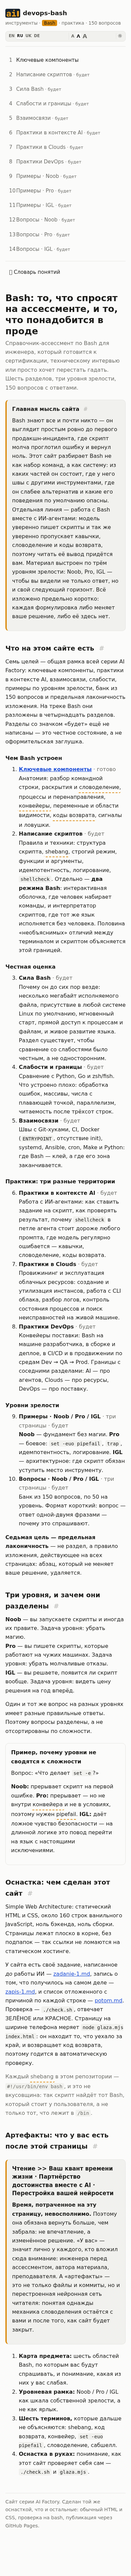
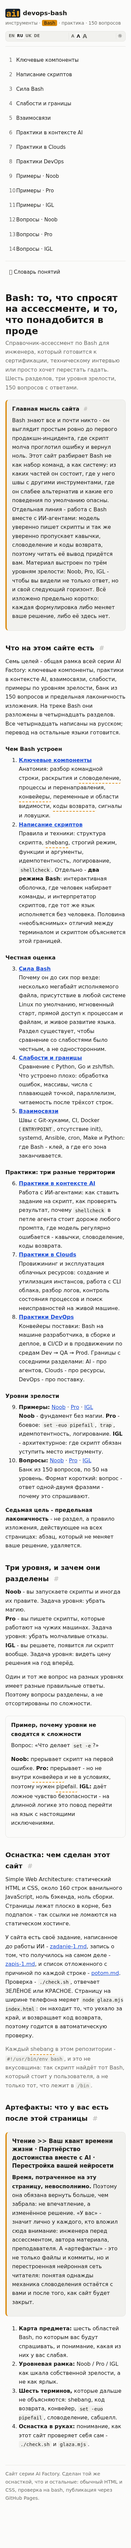
docs: review loop in record 4

Changed region(s): [[0.0308, 0.0, 0.9231, 0.9649]]

diff --git a/zapis-4.md b/zapis-4.md
@@ -79,6 +79,70 @@
 
 ---
 
+## Вторая петля: ревью на Opus 5.5 · 2026-10-17
+
+Ревью шло по трём местам, которые первая петля сама назвала слабыми, и по одному принципу:
+**факты проверяются запуском, а не памятью.** Каждое исправленное утверждение ниже сначала
+выполнено в терминале.
+
+### Ошибки фактов, найденные и исправленные
+
+1. **`local` в `dash` есть.** Утверждалось обратное на страницах `04` и `13`. Проверено:
+   `dash -c 'f(){ local x=1; echo $x; }; f'` печатает `1`. Чего в `dash` действительно нет -
+   массивов, `[[ ]]`, подстановки процессов и `${v//a/b}`; это тоже проверено запуском.
+2. **GitHub Actions и `pipefail`.** Утверждалось, что `pipefail` в шаге `run:` нет никогда.
+   Неверно: без `shell:` запуск идёт как `bash -e {0}`, а с явным `shell: bash` - как
+   `bash --noprofile --norc -eo pipefail {0}`. Исправлено на `05`, `08` и `13`. Это
+   единственная правка по документации, а не по запуску: GitHub Actions на этой машине нет.
+3. **`readlink -f` в macOS** есть в современных версиях системы. Пример заменён на
+   устойчивое различие GNU и BSD: `stat -c %s` против `stat -f %z`.
+4. **Коды возврата в контракте инструмента (`11`).** Было «64 и выше - внутренняя ошибка»,
+   что расходится с `sysexits.h`, где 64 - неправильный вызов. Теперь названа конвенция
+   `sysexits.h` и главный запрет: не занимать 126, 127 и 128+N - их выдаёт сама оболочка.
+
+### Банк вопросов: состав
+
+Заменено 14 вопросов из 150. Причины - три, и только они:
+
+- **дубли между уровнями или внутри уровня**: `false | tee` повторял соседний вопрос про
+  `PIPESTATUS`; `rm $file` в Pro повторял вопрос про кавычки из Noob; `SIGKILL` в Pro повторял
+  `kill -9` из Noob; передача секрета аргументом в IGL повторяла тот же вопрос из Pro;
+- **вопросы, которых не задают**: `sync`, `diff -r`, `${var@Q}`, длина подстроки;
+- **уровень не тот**: `rm -rf "$dir/"` - механика уровня Pro, а не решение уровня IGL.
+
+Что пришло взамен, - то, что на интервью действительно спрашивают и чего в банке не было:
+`((i++))` под `set -e` (проверено: скрипт молча завершается с кодом 1), `exit` против
+`return` в подоболочке (проверено), `printf` против `echo`, `[[ =~ ]]` и ловушка с кавычками
+справа (проверено), `eval` как инъекция, локаль и `sort`, `find -exec +` против `\;`
+(проверено: на 300 файлах 641 мс против 8 мс), `2>/dev/null`, символическая и жёсткая
+ссылки, `alias` в скрипте, ревью shell-кода в команде, контрольные суммы загружаемых
+бинарников. В вопрос о дырах `set -e` добавлен `local x=$(cmd)` - проверено, ошибка
+действительно маскируется.
+
+**Не проверено на этой машине:** влияние локали на порядок `sort` - установлена только
+локаль `C`. Утверждение сформулировано без цифр и без примера порядка.
+
+### Уровень IGL (`11`, `14`): проверка на пустоту
+
+Каждый из шести разборов на `11` получил строку **«Цена решения»**: сколько стоит сделать и
+сколько стоит не сделать. Это превращает разбор из рассуждения в решение, которое можно
+оспорить по существу. На `14` пустых ответов не нашлось; заменены два вопроса - дубль и
+вопрос не того уровня.
+
+### Практики в контексте AI (`06`)
+
+Добавлено то, что меняет поведение агента, а не только понимание читателя:
+
+- **новый раздел «Агент не умеет нажать q»** - пейджеры, запросы, редакторы как причина
+  зависаний, и объём вывода как цена контекста;
+- **прочитанный текст - данные, а не команды**: защита от указаний внутри файлов и вывода;
+- **незнакомый ключ проверяют `--help` до использования** - замыкает пятую типовую ошибку.
+
+**Машинная проверка после правок:** `./check.sh` → ЗЕЛЁНОЕ; `glaza.mjs` на всех 64 страницах
+→ «за край ничего не вылезло»; длинных тире в репозитории - ноль.
+
+---
+
 ## Правило, которое дороже всех остальных
 
 **Слова о работе - не работа.** Сравнивай с заданием, а не с рассказом о результате.
